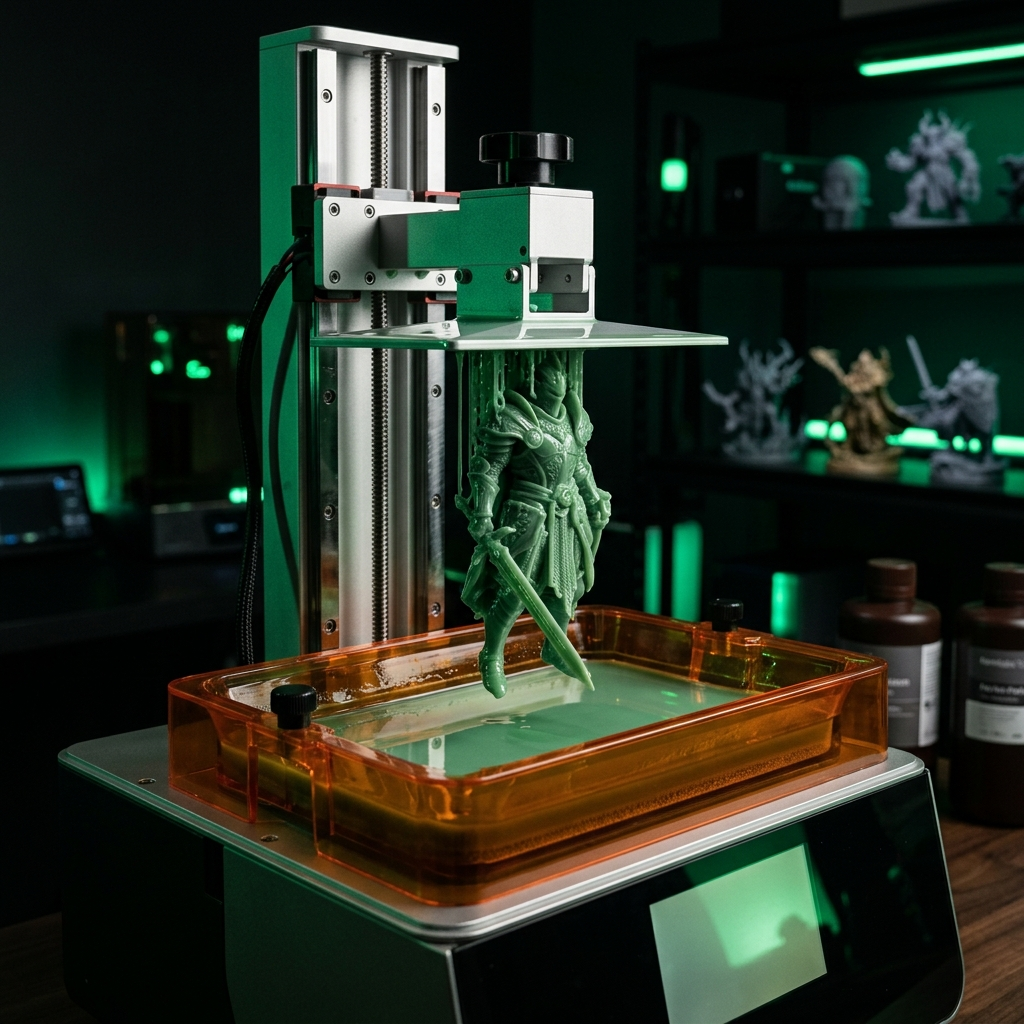
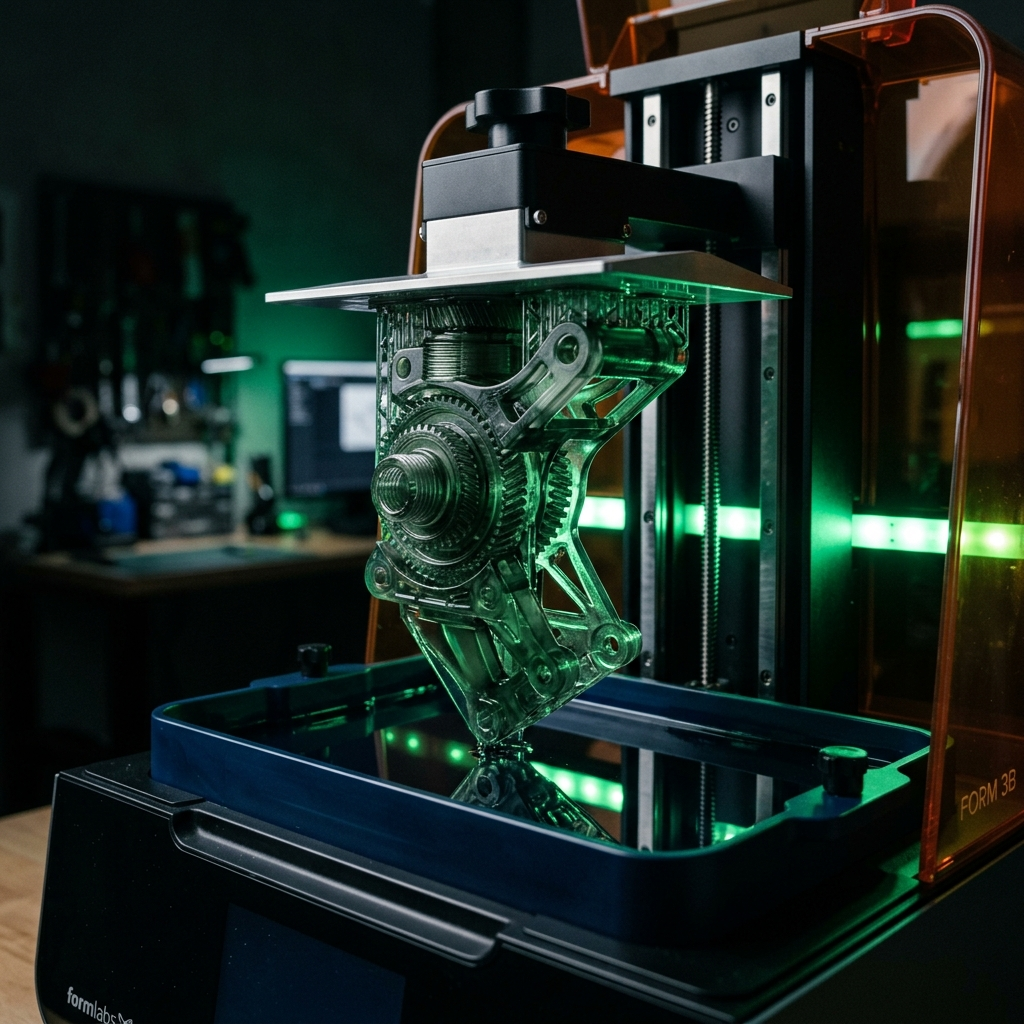
Update resin print images and match sidebar active color to invoices

diff --git a/admin/src/pages/ContactSubmissions.jsx b/admin/src/pages/ContactSubmissions.jsx
@@ -134,7 +134,7 @@ export default function ContactSubmissions() {
  <div className="overflow-x-auto">
  <table className="w-full">
  <thead>
- <tr className="border-b border-white/5 bg-[#152e1f]">
+ <tr className="border-b border-white/5">
  <th className="text-left px-6 py-4 text-xs text-white/90 font-display uppercase tracking-wider">Tracking ID</th>
  <th className="text-left px-6 py-4 text-xs text-white/90 font-display uppercase tracking-wider">Customer</th>
  <th className="text-left px-6 py-4 text-xs text-white/90 font-display uppercase tracking-wider">Date</th>

diff --git a/admin/src/pages/Login.jsx b/admin/src/pages/Login.jsx
@@ -31,13 +31,7 @@ export default function Login() {
  }
 
  return (
- <div className="min-h-screen flex items-center justify-center relative overflow-hidden">
- {/* Global Glow Background */}
- <div className="glow-bg">
- <div className="glow-orb-1"></div>
- <div className="glow-orb-2"></div>
- <div className="glow-orb-3"></div>
- </div>
+ <div className="min-h-screen flex items-center justify-center relative overflow-hidden bg-[#06150D]">
 
   {/* Login card */}
   <div className="relative z-10 w-full max-w-md mx-4">

diff --git a/admin/src/components/Sidebar/Sidebar.jsx b/admin/src/components/Sidebar/Sidebar.jsx
@@ -56,8 +56,8 @@ export default function Sidebar({ mobileMenuOpen, setMobileMenuOpen }) {
  onClick={() => setMobileMenuOpen && setMobileMenuOpen(false)}
  className={`flex items-center justify-between px-4 py-3 rounded-xl transition-all duration-300 group ${
  isActive
- ? 'bg-[#152e1f] text-white'
- : 'text-[#829087] hover:text-white'
+ ? 'bg-[#0a0a0a] border border-white/5 text-white'
+ : 'text-[#829087] hover:text-white hover:bg-white/5'
  }`}
  >
  <div className="flex items-center gap-4">

diff --git a/client/src/data/services.js b/client/src/data/services.js
@@ -264,9 +264,9 @@ export const SERVICE_DATA = {
       'Tolerances: ±0.05mm for high-accuracy resin prints.'
     ],
     gallery: [
-      '/images/services/resin_print.png',
-      '/images/services/resin_print.png',
-      '/images/services/resin_print.png'
+      '/images/services/resin_print_gallery1.png',
+      '/images/services/resin_print_gallery1.png',
+      '/images/services/resin_print_gallery1.png'
     ],
     image: '/images/services/resin_print.png'
   }
